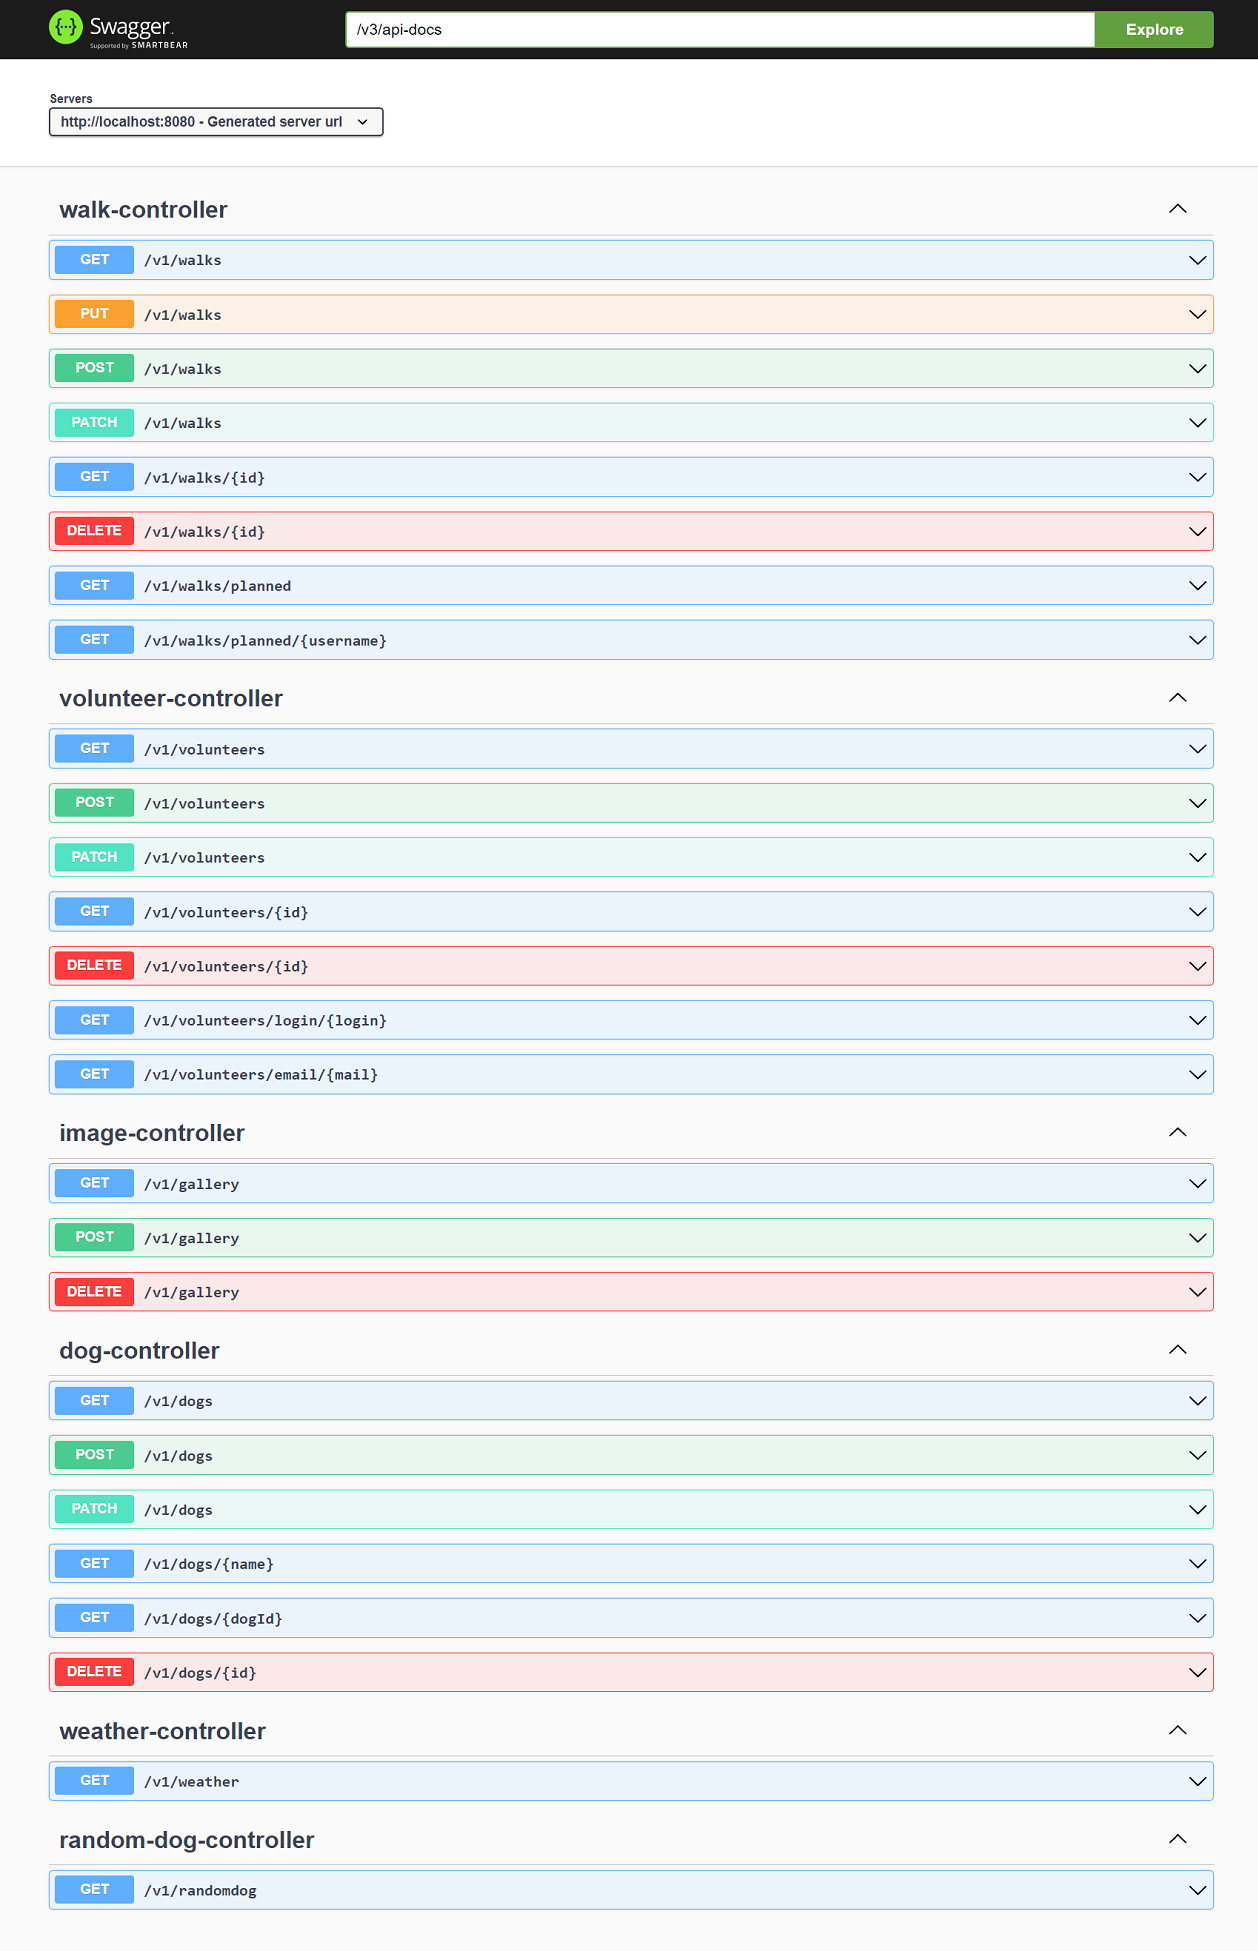
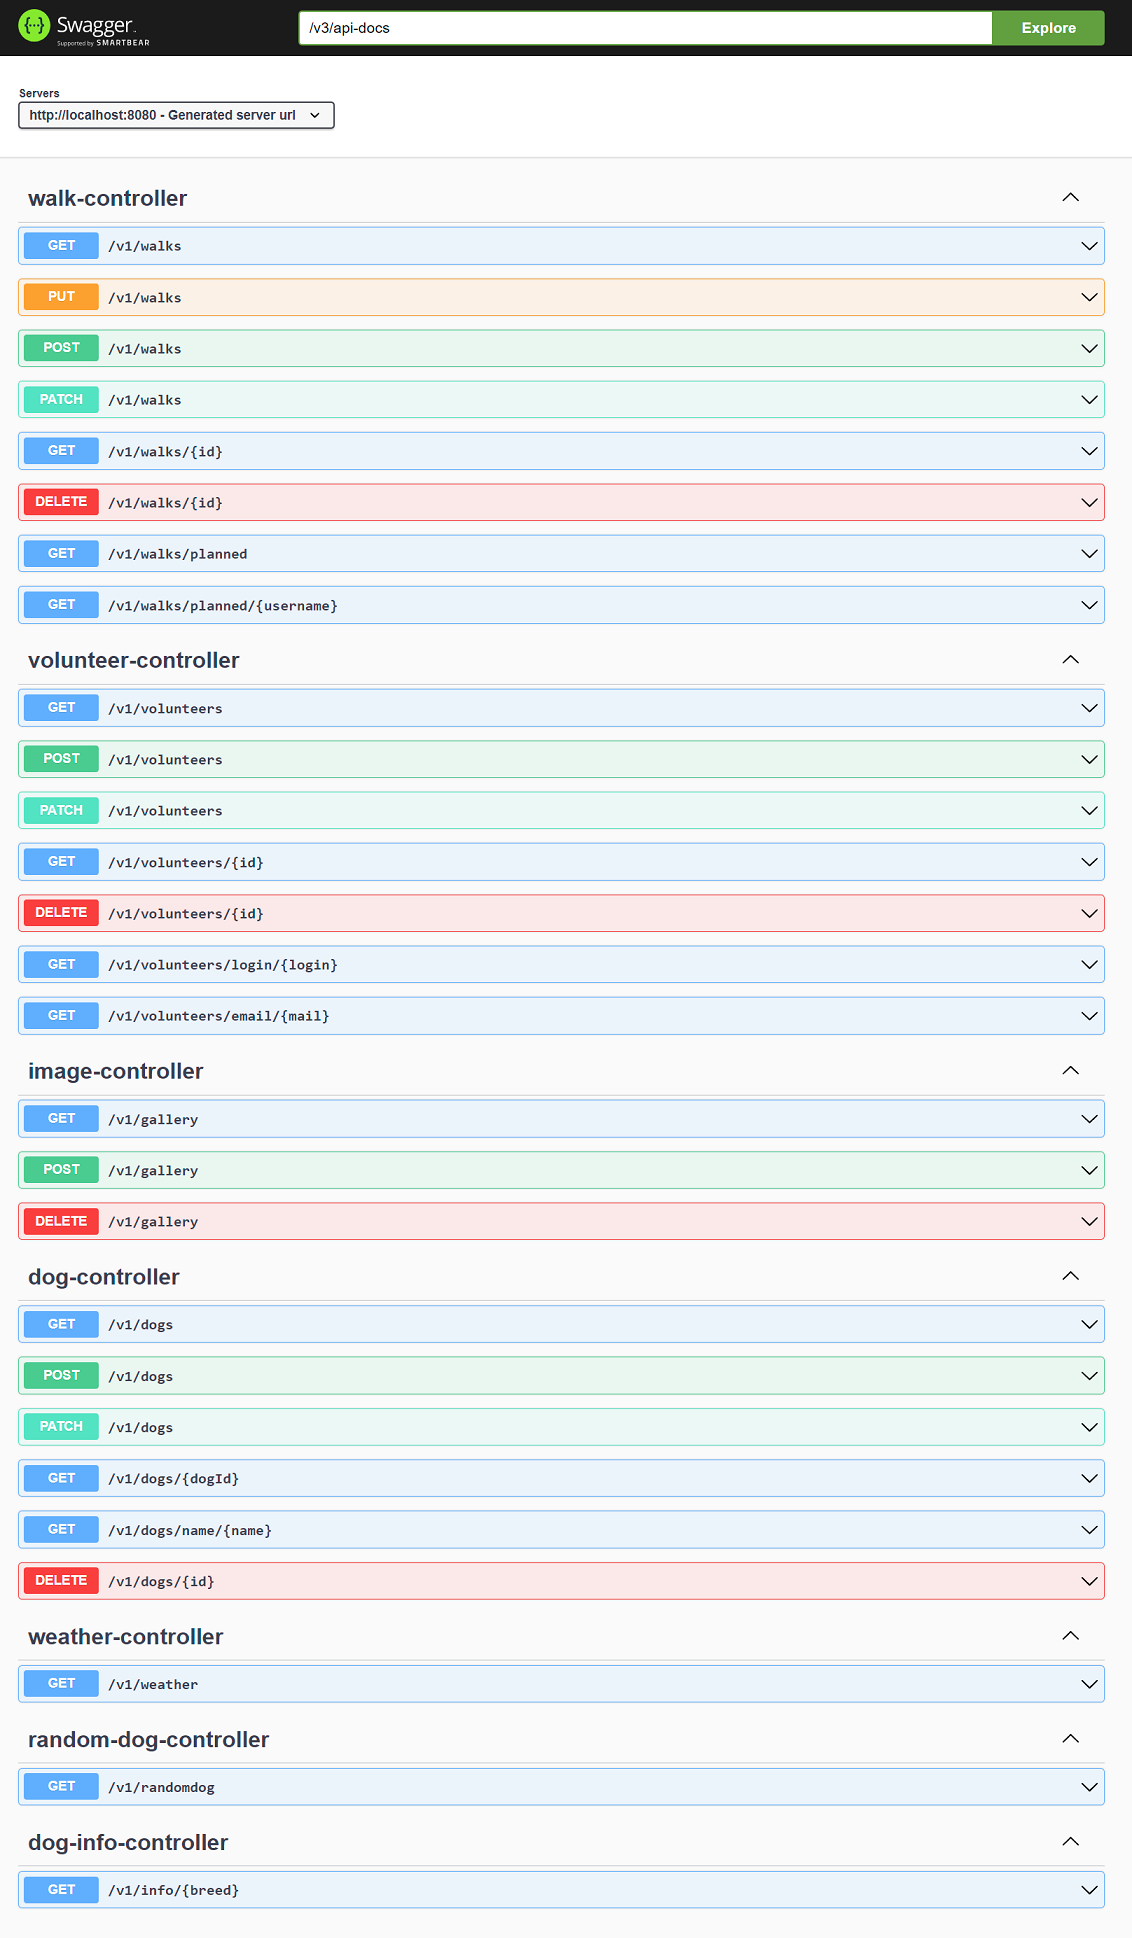
dog info api

Changed region(s): [[0.0, 0.0, 0.9894, 0.9907], [0.9276, 0.8978, 0.9894, 0.9907]]

diff --git a/src/main/java/com/example/dogshelter/controller/ImageController.java b/src/main/java/com/example/dogshelter/controller/ImageController.java
@@ -4,6 +4,7 @@ import com.example.dogshelter.api.cloudinary.CloudinaryClient;
 import com.example.dogshelter.dto.ImageDto;
 import com.example.dogshelter.facade.ImageFacade;
 import com.example.dogshelter.repository.CloudinaryRepository;
+import com.example.dogshelter.service.CloudinaryService;
 import lombok.RequiredArgsConstructor;
 import org.springframework.http.MediaType;
 import org.springframework.http.ResponseEntity;
@@ -17,8 +18,6 @@ import java.util.List;
 @CrossOrigin("*")
 public class ImageController {
 
-    private final CloudinaryClient cloudinaryClient;
-    private final CloudinaryRepository cloudinaryRepository;
     private final ImageFacade imageFacade;
 
 
@@ -27,10 +26,6 @@ public class ImageController {
         return ResponseEntity.ok(imageFacade.findAll());
     }
 
-//    @PostMapping(consumes = MediaType.APPLICATION_JSON_VALUE)
-//    public ResponseEntity<ImageDto> uploadImage(@RequestBody ImageDto imageDto) throws IOException {
-//        return ResponseEntity.ok(cloudinaryClient.uploadFileAndSaveToDb(imageDto.getUrl()));
-//    }
     @PostMapping(consumes = MediaType.APPLICATION_JSON_VALUE)
     public ResponseEntity<ImageDto> uploadImage(@RequestBody ImageDto imageDto) throws IOException {
         return ResponseEntity.ok(imageFacade.uploadImage(imageDto));
@@ -38,7 +33,7 @@ public class ImageController {
 
     @DeleteMapping(consumes = MediaType.APPLICATION_JSON_VALUE)
     public ResponseEntity<Void> deleteImage(@RequestBody ImageDto imageDto) {
-        cloudinaryRepository.deleteByImageAddress(imageDto.getUrl());
+       imageFacade.deleteImage(imageDto.getUrl());
         return ResponseEntity.ok().build();
     }
 

diff --git a/src/main/java/com/example/dogshelter/api/open_meteo/OpenMeteoClient.java b/src/main/java/com/example/dogshelter/api/open_meteo/OpenMeteoClient.java
@@ -5,9 +5,7 @@ import lombok.RequiredArgsConstructor;
 import org.springframework.stereotype.Component;
 import org.springframework.web.client.RestTemplate;
 import org.springframework.web.util.UriComponentsBuilder;
-
 import java.net.URI;
-
 
 @Component
 @RequiredArgsConstructor
@@ -18,27 +16,14 @@ public class OpenMeteoClient {
     public Weather fetchWeather(){
         return restTemplate.getForObject(buildUrl(),  Weather.class);
     }
-//
-    String url = "http://api.open-meteo.com/v1/forecast?latitude=53.13&longitude=23.16&daily=temperature_2m_max,temperature_2m_min,precipitation_sum,precipitation_probability_max,windspeed_10m_max&timezone=auto";
 
    private URI buildUrl(){
-
        return  UriComponentsBuilder.fromHttpUrl("https://api.open-meteo.com/v1/forecast")
                .queryParam("latitude", 53.13)
                .queryParam("longitude", 23.16)
                .queryParam("daily", "temperature_2m_max", "temperature_2m_min", "precipitation_sum", "precipitation_probability_max", "windspeed_10m_max")
-               //.queryParam("daily", "temperature_2m_min")
-               //.queryParam("daily", "precipitation_sum")
-              // .queryParam("daily", "precipitation_probability_max")
-               //.queryParam("daily", "windspeed_10m_max")
                .queryParam("timezone", "auto")
                .build().encode().toUri();
-
    }
-
-
-
-
-
 
 }

diff --git a/src/main/java/com/example/dogshelter/api/dog_ninja/DogNinjaClient.java b/src/main/java/com/example/dogshelter/api/dog_ninja/DogNinjaClient.java
@@ -1,0 +1,32 @@
+package com.example.dogshelter.api.dog_ninja;
+
+import com.example.dogshelter.domain.api.dog_ninja_info.DogInfo;
+import lombok.RequiredArgsConstructor;
+import org.springframework.http.*;
+import org.springframework.stereotype.Component;
+import org.springframework.util.LinkedMultiValueMap;
+import org.springframework.util.MultiValueMap;
+import org.springframework.web.client.RestTemplate;
+import java.util.Arrays;
+import java.util.Objects;
+
+@Component
+@RequiredArgsConstructor
+public class DogNinjaClient {
+
+    private final DogNinjaConfig dogNinjaConfig;
+    private final RestTemplate restTemplate;
+
+    public DogInfo getDogInfo(String name) {
+        String url = dogNinjaConfig.getDogNinjaNameApiEndpoint()+name;
+        MultiValueMap<String, String> body = new LinkedMultiValueMap<String, String>();
+        HttpHeaders headers = new HttpHeaders();
+        headers.add("Accept", "application/json");
+        headers.add("X-RapidAPI-Key", dogNinjaConfig.getHeaderApiKey());
+        headers.add("X-RapidAPI-Host", dogNinjaConfig.getHeaderApiHost());
+        HttpEntity<?> entity = new HttpEntity<Object>(body, headers);
+        ResponseEntity<DogInfo[]> res = restTemplate.exchange(
+                url, HttpMethod.GET, entity, DogInfo[].class);
+        return  Arrays.asList(Objects.requireNonNull(res.getBody())).get(0);
+    }
+}

diff --git a/src/main/java/com/example/dogshelter/service/CloudinaryService.java b/src/main/java/com/example/dogshelter/service/CloudinaryService.java
@@ -2,6 +2,7 @@ package com.example.dogshelter.service;
 
 import com.example.dogshelter.api.cloudinary.CloudinaryClient;
 import com.example.dogshelter.config.AdminConfig;
+import com.example.dogshelter.domain.Image;
 import com.example.dogshelter.domain.Mail;
 import com.example.dogshelter.dto.ImageDto;
 import com.example.dogshelter.repository.CloudinaryRepository;
@@ -9,6 +10,7 @@ import lombok.RequiredArgsConstructor;
 import org.springframework.stereotype.Service;
 
 import java.io.IOException;
+import java.util.List;
 import java.util.Optional;
 
 @Service
@@ -20,8 +22,6 @@ public class CloudinaryService {
     private final AdminConfig adminConfig;
     private final CloudinaryRepository cloudinaryRepository;
     public static final String UPLOAD_SUBJECT = "New image uploaded!";
-
-
 
     public ImageDto uploadAndSaveToDb(String path) throws IOException {
         ImageDto imageDto = cloudinaryClient.uploadFileAndSaveToDb(path);
@@ -41,4 +41,9 @@ public class CloudinaryService {
     public void deleteImage(String url) {
         cloudinaryRepository.deleteByImageAddress(url);
     }
+
+    public List<Image> findAll() {
+        return cloudinaryRepository.findAll();
+    }
+
 }

diff --git a/src/main/java/com/example/dogshelter/domain/Mail.java b/src/main/java/com/example/dogshelter/domain/Mail.java
@@ -1,22 +1,18 @@
 package com.example.dogshelter.domain;
-
 import lombok.Getter;
 
 @Getter
 public class Mail {
-
     private final String mailTo;
     private String toCc;
     private final String subject;
     private final String message;
-
 
         public static class MailBuilder {
             private String mailTo;
             private String toCc;
             private String subject;
             private String message;
-
 
 
         public MailBuilder mailTo(String mailTo){
@@ -39,12 +35,7 @@ public class Mail {
         public Mail build (){
             return new Mail(mailTo, toCc, subject, message);
         }
-
-
     }
-
-
-
 
     private Mail(String mailTo, String toCc, String subject, String message) {
         this.mailTo = mailTo;
@@ -56,15 +47,12 @@ public class Mail {
     public String getMailTo() {
         return mailTo;
     }
-
     public String getToCc() {
         return toCc;
     }
-
     public String getSubject() {
         return subject;
     }
-
     public String getMessage() {
         return message;
     }

diff --git a/src/main/java/com/example/dogshelter/domain/api/dog_ninja_info/DogInfo.java b/src/main/java/com/example/dogshelter/domain/api/dog_ninja_info/DogInfo.java
@@ -1,0 +1,36 @@
+package com.example.dogshelter.domain.api.dog_ninja_info;
+
+import com.fasterxml.jackson.annotation.JsonIgnoreProperties;
+import com.fasterxml.jackson.annotation.JsonProperty;
+import lombok.AllArgsConstructor;
+import lombok.Getter;
+import lombok.NoArgsConstructor;
+import lombok.Setter;
+
+@Getter
+@Setter
+@AllArgsConstructor
+@NoArgsConstructor
+@JsonIgnoreProperties(ignoreUnknown = true)
+public class DogInfo {
+
+    @JsonProperty("image_link")
+    public String imageLink;
+    @JsonProperty("good_with_children")
+    public int goodWithChildren;
+    @JsonProperty("good_with_other_dogs")
+    public int goodWithOtherDogs;
+    @JsonProperty("playfulness")
+    public int playfulness;
+    @JsonProperty("protectiveness")
+    public int protectiveness;
+    @JsonProperty("trainability")
+    public int trainability;
+    @JsonProperty("barking")
+    public int barking;
+    @JsonProperty("max_life_expectancy")
+    public double maxLifeExpectancy;
+    @JsonProperty("name")
+    public String name;
+
+}

diff --git a/src/main/java/com/example/dogshelter/api/cloudinary/CloudinaryClient.java b/src/main/java/com/example/dogshelter/api/cloudinary/CloudinaryClient.java
@@ -9,8 +9,6 @@ import com.example.dogshelter.repository.CloudinaryRepository;
 import lombok.RequiredArgsConstructor;
 import org.springframework.beans.factory.annotation.Autowired;
 import org.springframework.stereotype.Component;
-
-
 import java.io.File;
 import java.io.IOException;
 import java.util.Map;
@@ -18,7 +16,6 @@ import java.util.Map;
 @Component
 @RequiredArgsConstructor
 public class CloudinaryClient {
-
 
     private Cloudinary cloudinary;
     private CloudinaryRepository cloudinaryRepository;
@@ -36,7 +33,6 @@ public class CloudinaryClient {
                 "api_secret", cloudinaryConfig.getApiSecretValue()));
     }
 
-
     public ImageDto uploadFileAndSaveToDb(String path) throws IOException {
         File file = new File(path);
         Map uploadResult = null;
@@ -44,10 +40,5 @@ public class CloudinaryClient {
             Image savedImage = cloudinaryRepository.save(new Image(uploadResult.get("url").toString()));
             return imageMapper.mapToImageDto(savedImage);
     }
-
-
-
-
-
 
 }

diff --git a/src/main/java/com/example/dogshelter/facade/ImageFacade.java b/src/main/java/com/example/dogshelter/facade/ImageFacade.java
@@ -3,24 +3,20 @@ package com.example.dogshelter.facade;
 import com.example.dogshelter.domain.Image;
 import com.example.dogshelter.dto.ImageDto;
 import com.example.dogshelter.mapper.ImageMapper;
-import com.example.dogshelter.repository.CloudinaryRepository;
 import com.example.dogshelter.service.CloudinaryService;
 import lombok.RequiredArgsConstructor;
 import org.springframework.stereotype.Component;
-import org.springframework.web.bind.annotation.RequestBody;
-
 import java.io.IOException;
 import java.util.List;
 @Component
 @RequiredArgsConstructor
 public class ImageFacade {
 
-    private final CloudinaryRepository cloudinaryRepository;
     private final ImageMapper imageMapper;
     private final CloudinaryService cloudinaryService;
 
     public List<ImageDto> findAll() {
-        List <Image> images = cloudinaryRepository.findAll();
+        List <Image> images = cloudinaryService.findAll();
         return imageMapper.mapToImageDtoList(images);
     }
 

diff --git a/src/main/java/com/example/dogshelter/service/WalkService.java b/src/main/java/com/example/dogshelter/service/WalkService.java
@@ -6,7 +6,6 @@ import com.example.dogshelter.domain.Mail;
 import com.example.dogshelter.domain.Volunteer;
 import com.example.dogshelter.domain.Walk;
 import com.example.dogshelter.dto.WalkDto;
-import com.example.dogshelter.dto.WalkFinishDto;
 import com.example.dogshelter.exception.DogNotFoundException;
 import com.example.dogshelter.exception.VolunteerNotFoundException;
 import com.example.dogshelter.exception.WalkNotFoundException;
@@ -28,7 +27,6 @@ public class WalkService {
     private final DogRepository dogRepository;
     private final SimpleEmailService simpleEmailService;
     private final AdminConfig adminConfig;
-
     public static final String SUBJECT = "New walk for volunteer";
 
     public List<Walk> findAllWalks() {
@@ -129,7 +127,6 @@ public class WalkService {
     }
 
     public long count() {
-
         return walkRepository.count();
     }
 }

diff --git a/src/main/java/com/example/dogshelter/mapper/WalkMapper.java b/src/main/java/com/example/dogshelter/mapper/WalkMapper.java
@@ -3,7 +3,6 @@ package com.example.dogshelter.mapper;
 import com.example.dogshelter.domain.Dog;
 import com.example.dogshelter.domain.Volunteer;
 import com.example.dogshelter.domain.Walk;
-import com.example.dogshelter.dto.DogDto;
 import com.example.dogshelter.dto.WalkDto;
 import com.example.dogshelter.exception.DogNotFoundException;
 import com.example.dogshelter.exception.VolunteerNotFoundException;
@@ -11,7 +10,6 @@ import com.example.dogshelter.repository.DogRepository;
 import com.example.dogshelter.repository.VolunteerRepository;
 import lombok.Getter;
 import lombok.RequiredArgsConstructor;
-import org.springframework.beans.factory.annotation.Autowired;
 import org.springframework.stereotype.Service;
 
 import java.util.List;

diff --git a/src/main/java/com/example/dogshelter/scheduler/EmailScheduler.java b/src/main/java/com/example/dogshelter/scheduler/EmailScheduler.java
@@ -21,10 +21,8 @@ public class EmailScheduler {
     private final SimpleEmailService simpleEmailService;
     private final AdminConfig adminConfig;
     private final WalkService walkService;
-
     private final VolunteerService volunteerService;
     private final WeatherService weatherService;
-
     private static final String SUBJECT = "Dog Shelter Friend: Once a day email";
     private static final String SUBJECT2 = "Dog Shelter: Visit us this weekend! ";
 
@@ -72,5 +70,4 @@ public class EmailScheduler {
                "Probability of precipitation: "+weather.getDaily().getPrecipitationProbabilityMax().get(2)+weather.getDailyUnits().getPrecipitationProbabilityMax()+"\n" +
                "See You later!";
         }
-
 }

diff --git a/src/main/java/com/example/dogshelter/controller/DogInfoController.java b/src/main/java/com/example/dogshelter/controller/DogInfoController.java
@@ -1,0 +1,23 @@
+package com.example.dogshelter.controller;
+
+import com.example.dogshelter.domain.api.dog_ninja_info.DogInfo;
+import com.example.dogshelter.facade.DogInfoFacade;
+import lombok.RequiredArgsConstructor;
+import org.springframework.http.ResponseEntity;
+import org.springframework.web.bind.annotation.*;
+
+@RestController
+@RequestMapping("/v1/info")
+@RequiredArgsConstructor
+@CrossOrigin("*")
+public class DogInfoController {
+
+    private final DogInfoFacade dogInfoFacade;
+
+
+    @GetMapping(value = "/{breed}")
+    public ResponseEntity<DogInfo> getDogInfo(@PathVariable String breed) {
+        return ResponseEntity.ok(dogInfoFacade.getDogInfo(breed));
+    }
+
+}
